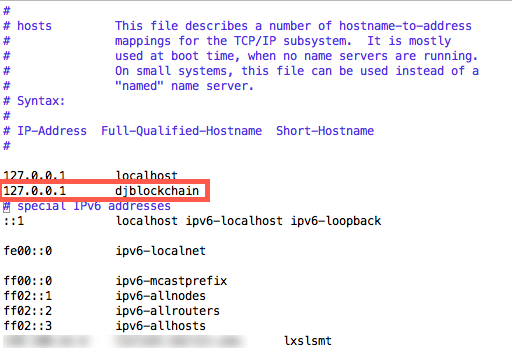
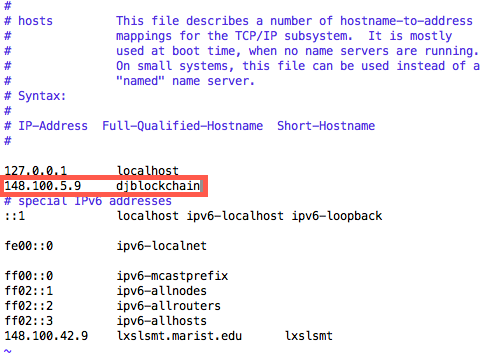
Updated README.md

Changed region(s): [[0.0, 0.0, 0.7816, 1.0], [0.2104, 0.0312, 0.9619, 0.2812], [0.5411, 0.9062, 0.6613, 1.0]]

diff --git a/README.md b/README.md
@@ -681,7 +681,7 @@ In this section of the journey you will request access to the LinuxONE Community
 
     * Press `Enter` to start a new line.
 
-    * On the new line, type in `127.0.0.1     djblockchain`.
+    * On the new line, type in `xxx.xxx.x.x     djblockchain` where the x's is the IP address for your Linux guest.
 
     * Press `Esc` to leave insert mode.
 
@@ -701,7 +701,15 @@ In this section of the journey you will request access to the LinuxONE Community
 
     ![Verify the rest server is running.](images/VerifyRestServer.png)
 
-80. To see your API, go back to your browser and open a new tab or window. In the address bar, enter `http://xxx.xxx.x.x:3000/explorer` where the x's are the IP address for your Linux guest.
+80. To see your API, go back to your browser and open a new tab or window. In the address bar, enter `http://xxx.xxx.x.x:3000/explorer` where the x's are the IP address for your Linux guest. You should see a page like the one shown.
+
+    ![View your REST APIs.](images/RestAPI.png)
+
+81. Expand the different methods to see the various calls and parameters you can make through REST API. You can also test the API in this browser to learn how to form the API and see the responses.
+
+    ![Test your API.](images/TestAPI.png)
+
+82. Congratulations! You now have a working blockchain application and have created APIs to call your blockchain application.
 
     
 
